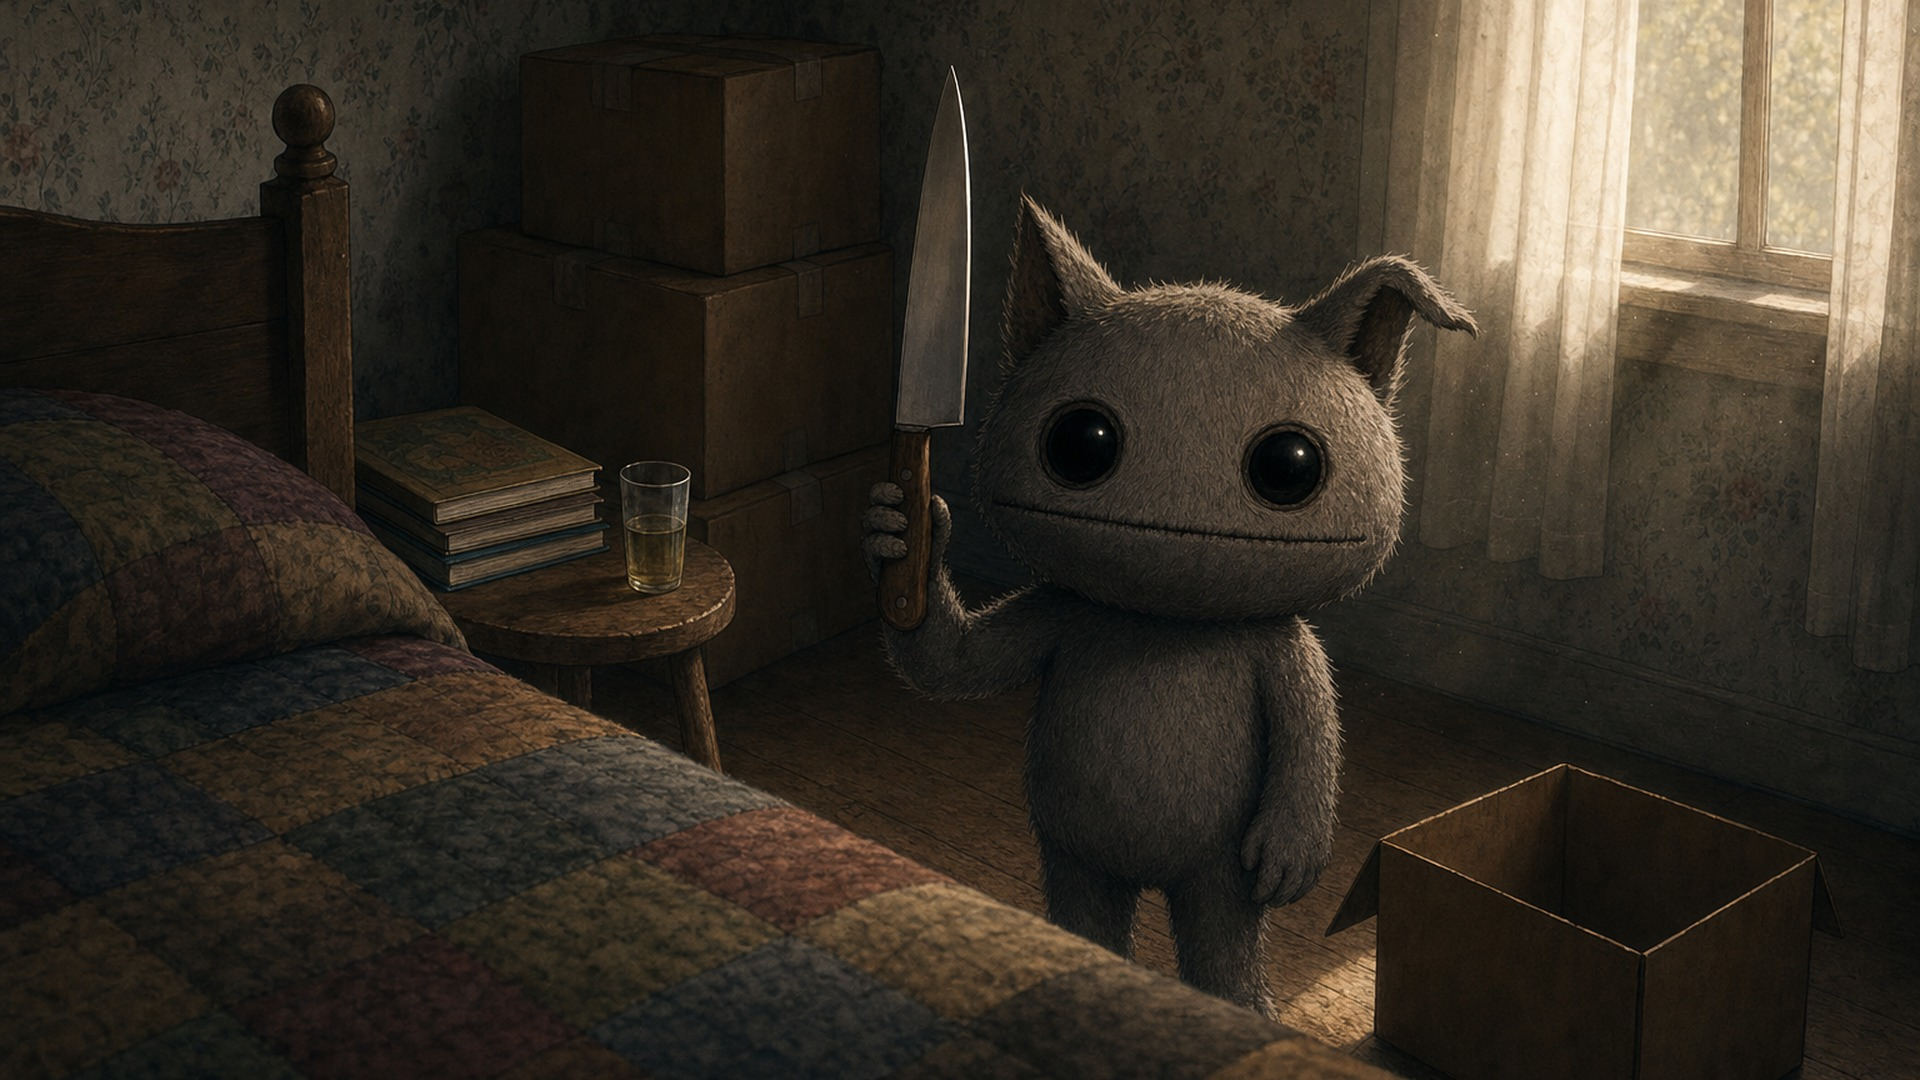
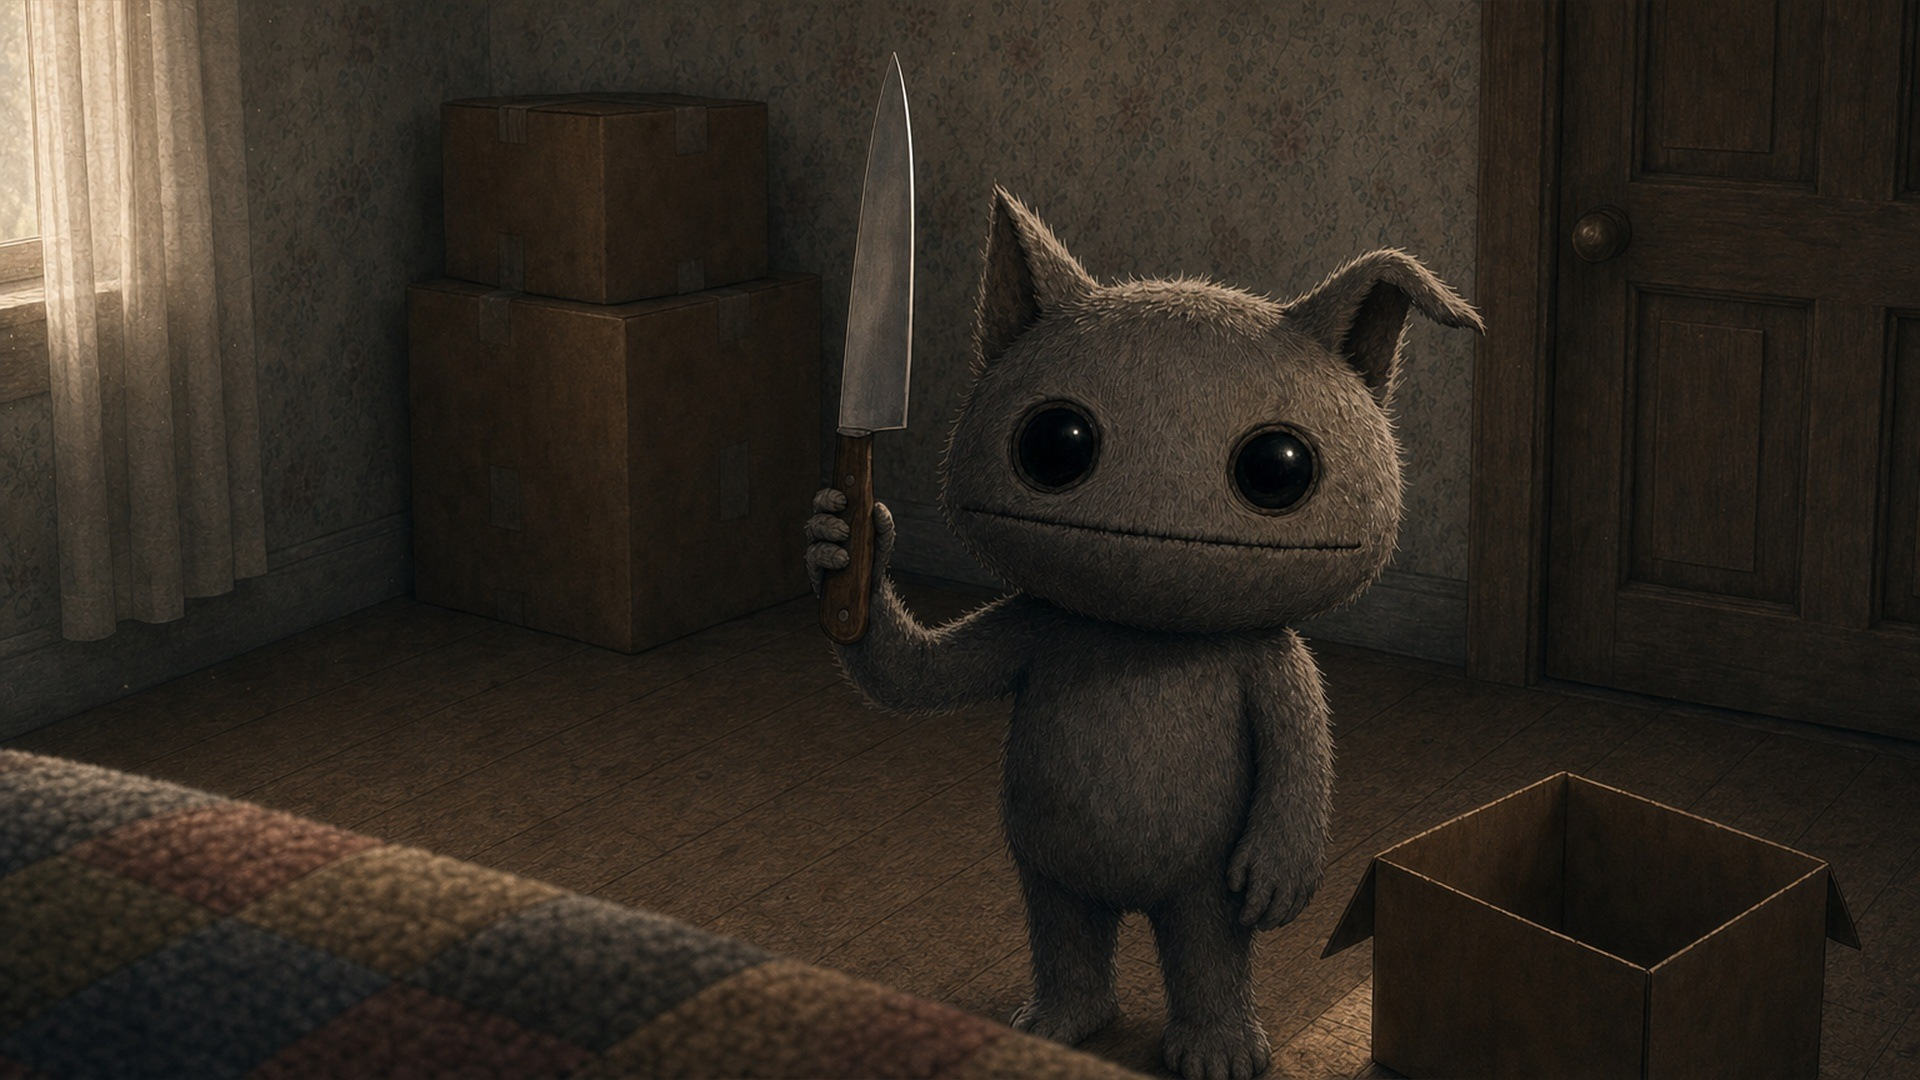
Mr. Widemouth: fourth review fixes
- Point of view: his face-to-camera bedroom shots (u_02, u_05, n_02, b_06) are seen from Eli's bed, so the
  bed, headboard and bedside stool no longer appear across the room; backgrounds repainted as the opposite
  wall (scripts/images/fix_pov.py), his mouth drawings carried along with the measured shift
- Window shot redrawn: he stands inside the lamp-lit room behind the glass (rim light, depth) with the
  steak knife in his left hand from the first frame; wave drawings keep the knife; framed on the window
- Subtitles and grain run to the end (they stopped at the last scene - a leftover from Frame 240)
- Quieter cut to the son: no boom on the black, a soft sub on the last cut; Leo's lines and the last
  whisper brought down to the narration's level

Claude-Session: https://claude.ai/code/session_01HYgoxans3AHT78NQRMkcgm

diff --git a/widemouth-horror/src/scenes/Wave.tsx b/widemouth-horror/src/scenes/Wave.tsx
@@ -23,6 +23,9 @@ export const WindowFig: React.FC<{arm?: 'wave' | 'none'}> = ({arm = 'none'}) => 
 		<line x1={960} y1={150} x2={960} y2={930} stroke="#e8e6df" strokeWidth={14} />
 		<line x1={640} y1={540} x2={1280} y2={540} stroke="#e8e6df" strokeWidth={14} />
 		<WideFig x={960} y={900} h={520} arm={arm} />
+		{/* the steak knife in his other hand, point down */}
+		<rect x={1036} y={770} width={20} height={60} fill="#5a3a22" />
+		<polygon points="1036,830 1056,830 1048,960" fill="#d8dde2" />
 	</>
 );
 
@@ -76,10 +79,10 @@ export const Wave: React.FC = () => (
 				quality: 'high',
 				dark: true,
 				mood: 'Night outside an upstairs window of the farmhouse: the window glass lit a dim warm amber from a lamp deep inside the room, the white clapboards around it blue-grey in the dark.',
-				prompt: 'An upstairs window of the old farmhouse seen from outside at night, straight on: standing on the inside windowsill behind the glass is MR. WIDEMOUTH - a small cat-sized creature with ash-grey fur, a huge round head, glossy black eyes, crooked ears and a wide closed-mouth smile from ear to ear. He stands perfectly still, arms at his sides, looking straight down at the camera. His LEFT hand hangs low in shadow by his side.',
+				prompt: 'An upstairs window of the old farmhouse seen from outside at night, straight on. MR. WIDEMOUTH - a small cat-sized creature with ash-grey fur, a huge round head, glossy black eyes, crooked ears (the LEFT one bent over at the tip like a folded ear, never cut off flat) and a wide closed-mouth smile from ear to ear - stands INSIDE the dark bedroom on the windowsill, a hand\'s width BEHIND the glass. A dim amber lamp deep in the room behind him rims his fur with warm light, so his shape stands out with depth against the shadowy room behind (wallpaper, the corner of a moving box) - he is clearly a creature in the room, not a picture on the glass; faint reflections of the night sky lie on the glass in front of him. He stands perfectly still, looking straight down at the camera, arms at his sides, and in his LEFT hand (on the RIGHT side of the image) he holds a large kitchen steak knife with a wooden handle, point down, the clean blade catching the lamp light. No blood.',
 				variants: [
-					{name: 'up', prompt: 'Mr. Widemouth has now lifted his RIGHT hand up beside his head, small palm open toward the camera, in a little goodbye wave. His smile and everything else stay exactly the same.'},
-					{name: 'tilt', prompt: 'Mr. Widemouth has lifted his RIGHT hand up beside his head in a little goodbye wave, the small palm tilted the other way, mid-wave. His smile and everything else stay exactly the same.'},
+					{name: 'up', prompt: 'Mr. Widemouth has now lifted his RIGHT hand (on the left side of the image) up beside his head, small palm open toward the camera, in a little goodbye wave. The steak knife stays in his other hand, point down. His smile and everything else stay exactly the same.'},
+					{name: 'tilt', prompt: 'Mr. Widemouth has lifted his RIGHT hand (on the left side of the image) up beside his head in a little goodbye wave, the small palm tilted the other way, mid-wave. The steak knife stays in his other hand, point down. His smile and everything else stay exactly the same.'},
 				],
 				seq: [
 					['base', 0],
@@ -89,7 +92,7 @@ export const Wave: React.FC = () => (
 					['tilt', 0.82],
 					['up', 0.92],
 				],
-				move: push(1.02, 1.12, 0.5, 0.48),
+				move: push(1.32, 1.5, 0.5, 0.37),
 			}, <WindowFig />, {bg: '#0d1220'}),
 			// "In his other hand, he was holding a steak knife."
 			close('w_06_knife', 'narrator_006_knife', {

diff --git a/widemouth-horror/src/data/voiceLines.ts b/widemouth-horror/src/data/voiceLines.ts
@@ -223,10 +223,10 @@ const END: VoiceLine[] = [
 	s9.n('narrator_087_son_five', 'Last week, my son turned five.', '[very quietly, calm]', 0.6),
 	s9.n('narrator_088_trampoline', 'This morning, he asked me if we could get a trampoline.', '[quietly, uneasy]', 0.6),
 	s9.n('narrator_089_who_told', 'I asked him who told him about trampolines.', '[whispering, afraid]', 0.5),
-	s9.l('leo_001_new_friend', 'My new friend. The one with the big smile.', {fishTags: '[happy, chatty]', pauseAfter: 0.5}),
-	s9.l('leo_002_under_bed', 'The one who lives under my bed.', {fishTags: '[whispering, delighted]', pauseAfter: 1.0}),
+	s9.l('leo_001_new_friend', 'My new friend. The one with the big smile.', {fishTags: '[happy, chatty]', pauseAfter: 0.5, volume: 0.55}),
+	s9.l('leo_002_under_bed', 'The one who lives under my bed.', {fishTags: '[whispering, delighted]', pauseAfter: 1.0, volume: 0.45}),
 	// the last shot: under Leo's bed, the eyes and the grin - and the voice we know
-	s9.w('widemouth_015_hello_again', 'Hello again, Eli.', {fishTags: '[whispering, sweet, pleased, clearly]', pauseAfter: 1.0}),
+	s9.w('widemouth_015_hello_again', 'Hello again, Eli.', {fishTags: '[whispering, sweet, pleased, clearly]', pauseAfter: 1.0, volume: 0.5}),
 ];
 
 export const VOICE_LINES: VoiceLine[] = [...WAVE, ...HOUSE, ...UNDER_BED, ...TRAMPOLINE, ...BOX, ...NIGHTS, ...TRAIL, ...FOUR_AM, ...END];

diff --git a/widemouth-horror/src/WidemouthHorror.tsx b/widemouth-horror/src/WidemouthHorror.tsx
@@ -41,7 +41,9 @@ const GlobalFx: React.FC<{end: number}> = ({end}) => {
 
 export const WidemouthHorror: React.FC<VideoSettings> = (settings) => {
 	const tl = settings.edit === 'full' ? TIMELINE_FULL : TIMELINE;
-	const endScene = tl.scenes[tl.scenes.length - 1];
+	// Subtitles and grain run to the very end. (The earlier films stopped them at their last scene, a silent
+	// black hold - here the last scene is the whole present-day ending, so they must not stop.)
+	const fxEnd = tl.totalFrames;
 	return (
 		<SettingsProvider value={settings}>
 			<AbsoluteFill style={{background: '#000'}}>
@@ -58,8 +60,8 @@ export const WidemouthHorror: React.FC<VideoSettings> = (settings) => {
 						</Sequence>
 					);
 				})}
-				<GlobalFx end={endScene.startFrame} />
-				{settings.subtitles !== false ? <Subtitles timeline={tl} until={endScene.startFrame} /> : null}
+				<GlobalFx end={fxEnd} />
+				{settings.subtitles !== false ? <Subtitles timeline={tl} until={fxEnd} /> : null}
 				{settings.audio ? <AudioLayer timeline={tl} /> : null}
 			</AbsoluteFill>
 		</SettingsProvider>

diff --git a/widemouth-horror/src/data/timeline.ts b/widemouth-horror/src/data/timeline.ts
@@ -392,7 +392,8 @@ const HITS: Record<string, SfxCue[]> = {
 	nights: [hit('bass_hit', 'narrator_056_not_in_bed', 0.0, 0.35), hit('riser_short', 'widemouth_011_almost', -1.2, 0.25), hit('boom_hit', 'widemouth_011_almost', 0.0, 0.5)],
 	trail: [hit('sub_drop', 'widemouth_014_not_ready', 0.5, 0.35)],
 	fourAm: [hit('bass_hit', 'narrator_069_nobody', 0.0, 0.3), hit('boom_hit', 'narrator_073_there_he_was', 0.1, 0.45), hit('sub_drop', 'narrator_076_the_knife', 0.2, 0.35)],
-	end: [hit('boom_hit', 'narrator_084_children', 0.1, 0.45), hit('boom_hit', 'cut_black_end', 0.0, 0.4), hit('riser_short', 'last_look', -1.6, 0.2), hit('boom_hit', 'last_look', 0.0, 0.5)],
+	// the cut to the son is quiet on purpose: no boom, just the black - the story carries it
+	end: [hit('boom_hit', 'narrator_084_children', 0.1, 0.4), hit('sub_drop', 'last_look', 0.0, 0.18)],
 };
 
 // ---------------------------------------------------------------------------

diff --git a/widemouth-horror/src/scenes/FourAm.tsx b/widemouth-horror/src/scenes/FourAm.tsx
@@ -85,9 +85,9 @@ export const FourAm: React.FC = () => (
 			// "And there he was. In my window."
 			again('f_10_there', 'narrator_073_there_he_was', 'w_03_window', {move: push(1.0, 1.3, 0.64, 0.24)}),
 			// "You already know the rest."
-			again('f_11_rest', 'narrator_074_you_know', 'w_04_still', {move: push(1.0, 1.06, 0.5, 0.48)}),
+			again('f_11_rest', 'narrator_074_you_know', 'w_04_still', {move: push(1.25, 1.34, 0.5, 0.37)}),
 			// "The little wave."
-			again('f_12_wave', 'narrator_075_little_wave', 'w_04_still', {show: 'up', move: push(1.06, 1.14, 0.55, 0.42)}),
+			again('f_12_wave', 'narrator_075_little_wave', 'w_04_still', {show: 'up', move: push(1.45, 1.6, 0.5, 0.35)}),
 			// "The steak knife."
 			again('f_13_knife', 'narrator_076_the_knife', 'w_06_knife', {move: push(1.1, 1.2, 0.5, 0.55)}),
 		]}

diff --git a/widemouth-horror/scripts/images/fix_pov.py b/widemouth-horror/scripts/images/fix_pov.py
@@ -1,0 +1,98 @@
+#!/usr/bin/env python3
+"""Fix the point of view in Mr. Widemouth's face-to-camera bedroom shots.
+
+These shots are seen from Eli lying in his bed, but the model drew the room behind the creature with
+the bed, the headboard and the bedside stool (books, ginger ale) across the room - as if from another
+place. One image edit per shot redraws the BACKGROUND as the opposite wall (boxes, curtains, door).
+The creature himself (and the knife) is kept pixel-for-pixel from the current frame, so his mouth
+drawings and lip line stay valid; the same new background goes into the shot's other drawings.
+
+    .venv/bin/python scripts/images/fix_pov.py [shot ...]
+"""
+import json
+import sys
+from pathlib import Path
+
+import cv2
+import numpy as np
+from PIL import Image
+
+sys.path.insert(0, str(Path(__file__).resolve().parent))
+import restyle as R  # noqa: E402
+
+BG = ('This frame is seen from Eli\'s pillow - the viewer is lying in the bed. So the bed, its headboard, the patchwork quilt and the '
+      'little bedside stool with the picture books and the glass of ginger ale must NOT appear anywhere behind the creature: they are '
+      'under and beside the viewer, not across the room. Redraw ONLY the background behind the creature as the OPPOSITE wall of the '
+      'same bedroom: the same faded floral wallpaper, stacked taped cardboard moving boxes, the thin white curtains, the bare '
+      'floorboards and the closed wooden bedroom door. Keep the creature EXACTLY identical - same pose, face, eyes, mouth, teeth, '
+      'fur, ears, hands and anything he holds - and keep the same camera, light and colours.')
+SHOTS = {
+    # shot: (point on the creature, extra instruction, drawings that share the frame)
+    'u_02_wm': ((960, 560), ' Keep the patchwork quilt edge across the bottom of the frame exactly as it is.', ['_talk', '_talk_half']),
+    'u_05_mouth': ((960, 450), '', ['_vwide']),
+    'n_02_grin': ((1000, 650), ' It is night: cold blue moonlight, deep shadow. Keep the patchwork quilt edge across the bottom of the frame '
+                                'exactly as it is.', ['_talk', '_talk_half']),
+    'b_06_flat': ((1060, 620), ' The bed the viewer lies in shows ONLY as a strip of patchwork quilt along the bottom-left edge of the '
+                                'frame - no headboard, no far end of the bed. Keep the open cardboard box at his feet.', []),
+}
+RAW = R.ROOT / 'build' / 'pov_fix'
+# his face, for measuring how the repaint moved him
+FACE = {'u_02_wm': (680, 330, 1260, 800), 'u_05_mouth': (300, 60, 1600, 900), 'n_02_grin': (560, 420, 1400, 860), 'b_06_flat': (880, 380, 1260, 760)}
+
+
+def face_warp(old: np.ndarray, new: np.ndarray, win: tuple[int, int, int, int]) -> np.ndarray:
+    """2x3 affine taking a point of the old frame to the same point of the repainted frame (ECC on his face)."""
+    x0, y0, x1, y1 = win
+    a = cv2.cvtColor(old, cv2.COLOR_RGB2GRAY).astype(np.float32)[y0:y1, x0:x1]
+    b = cv2.cvtColor(new, cv2.COLOR_RGB2GRAY).astype(np.float32)[y0:y1, x0:x1]
+    w = np.eye(2, 3, dtype=np.float32)
+    cc, w = cv2.findTransformECC(a, b, w, cv2.MOTION_AFFINE, (cv2.TERM_CRITERIA_EPS | cv2.TERM_CRITERIA_COUNT, 300, 1e-6), None, 5)
+    A, t = w[:, :2], w[:, 2]
+    o = np.array([x0, y0], np.float32)
+    full = np.hstack([A, (t + o - A @ o)[:, None]])
+    print(f'    face match {cc:.3f}, scale {np.sqrt(abs(np.linalg.det(A))):.3f}, shift ({full[0, 2]:.1f}, {full[1, 2]:.1f})')
+    return full
+
+
+def main(names: list[str]) -> int:
+    R.load_env()
+    R.require_key()
+    RAW.mkdir(parents=True, exist_ok=True)
+    for shot in names or list(SHOTS):
+        seed, extra, others = SHOTS[shot]
+        base_p = R.OUT / f'{shot}_k1.jpg'
+        keep = RAW / f'{shot}_k1_before.jpg'
+        if not keep.exists():
+            Image.open(base_p).save(keep, quality=95)  # the original, kept once
+        old = np.asarray(Image.open(keep).convert('RGB'))
+        raw = RAW / f'{shot}_bg.jpg'
+        if not raw.exists():
+            imgs, prompt = R.edit_request(Image.fromarray(old), ['widemouth'], BG + extra)
+            var = R.uncanvas(R.openai_edit(imgs, prompt, 'anim', raw.name, quality='high'))
+            var.save(raw, quality=95)
+        new = np.asarray(Image.open(raw).convert('RGB').resize((old.shape[1], old.shape[0]), Image.LANCZOS))
+        Image.fromarray(new).save(base_p, quality=93)
+        M = face_warp(old, new, FACE[shot])
+        (RAW / f'{shot}_warp.json').write_text(json.dumps(M.tolist()))
+        for suf in others:
+            if suf.startswith('_talk'):
+                continue  # rebuilt from the new frame by open_mouth.py (lip line moved by the warp)
+            src = RAW / f'{shot}_k1{suf}_before.jpg'
+            cur = R.OUT / f'{shot}_k1{suf}.jpg'
+            if not src.exists() and cur.exists():
+                Image.open(cur).save(src, quality=95)
+            v = np.asarray(Image.open(src).convert('RGB')).astype(np.float32)
+            # the drawing differs from the old frame only in his mouth: move that area with him onto the new frame
+            d = cv2.GaussianBlur(np.abs(v - old.astype(np.float32)).mean(axis=2), (0, 0), 3) > 14
+            m = cv2.dilate(d.astype(np.uint8), np.ones((21, 21), np.uint8)).astype(np.float32)
+            H, W = old.shape[:2]
+            vw = cv2.warpAffine(v, M, (W, H), flags=cv2.INTER_LINEAR, borderMode=cv2.BORDER_REFLECT)
+            mw = cv2.GaussianBlur(cv2.warpAffine(m, M, (W, H)), (0, 0), 5)[..., None]
+            Image.fromarray((new * (1 - mw) + vw * mw).clip(0, 255).astype(np.uint8)).save(cur, quality=93)
+            print(f'    + {cur.name} (mouth moved with him)')
+    print(f'image spend so far: ${R.spent():.2f} of ${R.budget():.2f}')
+    return 0
+
+
+if __name__ == '__main__':
+    sys.exit(main(sys.argv[1:]))

diff --git a/widemouth-horror/scripts/images/open_mouth.py b/widemouth-horror/scripts/images/open_mouth.py
@@ -15,6 +15,7 @@ No image-model call, no cost. The lip lines were measured on gridded crops of ea
 """
 from __future__ import annotations
 
+import json
 import sys
 from pathlib import Path
 
@@ -80,12 +81,18 @@ def open_mouth(img: np.ndarray, pts, A: float, k: float, down: float, up: float,
 
 def main(names: list[str]) -> int:
     for shot in names or list(MOUTHS):
-        g = MOUTHS[shot]
+        g = dict(MOUTHS[shot])
+        warp = ROOT / 'build' / 'pov_fix' / f'{shot}_warp.json'
+        if warp.exists():
+            # the frame's background was repainted (scripts/images/fix_pov.py) and he moved a little with it
+            M = np.array(json.loads(warp.read_text()), np.float32)
+            g['pts'] = [tuple((M[:, :2] @ np.array(p, np.float32) + M[:, 2]).tolist()) for p in g['pts']]
+            g['A'] = g['A'] * float(np.sqrt(abs(np.linalg.det(M[:, :2]))))
         base = np.asarray(Image.open(OUT / f'{shot}_k1.jpg').convert('RGB'))
         for amount, suffix in ((0.5, '_talk_half'), (1.0, '_talk')):
             im = open_mouth(base, g['pts'], g['A'], g['k'], g['down'], g['up'], amount)
             Image.fromarray(im).save(OUT / f'{shot}_k1{suffix}.jpg', quality=93)
-        print(f'  {shot}: mouth opened along {g["pts"][-1][0] - g["pts"][0][0]} px (full {g["A"]} px, half {g["A"] / 2:.0f} px)')
+        print(f'  {shot}: mouth opened along {g["pts"][-1][0] - g["pts"][0][0]:.0f} px (full {g["A"]:.0f} px, half {g["A"] / 2:.0f} px)')
     return 0
 
 
